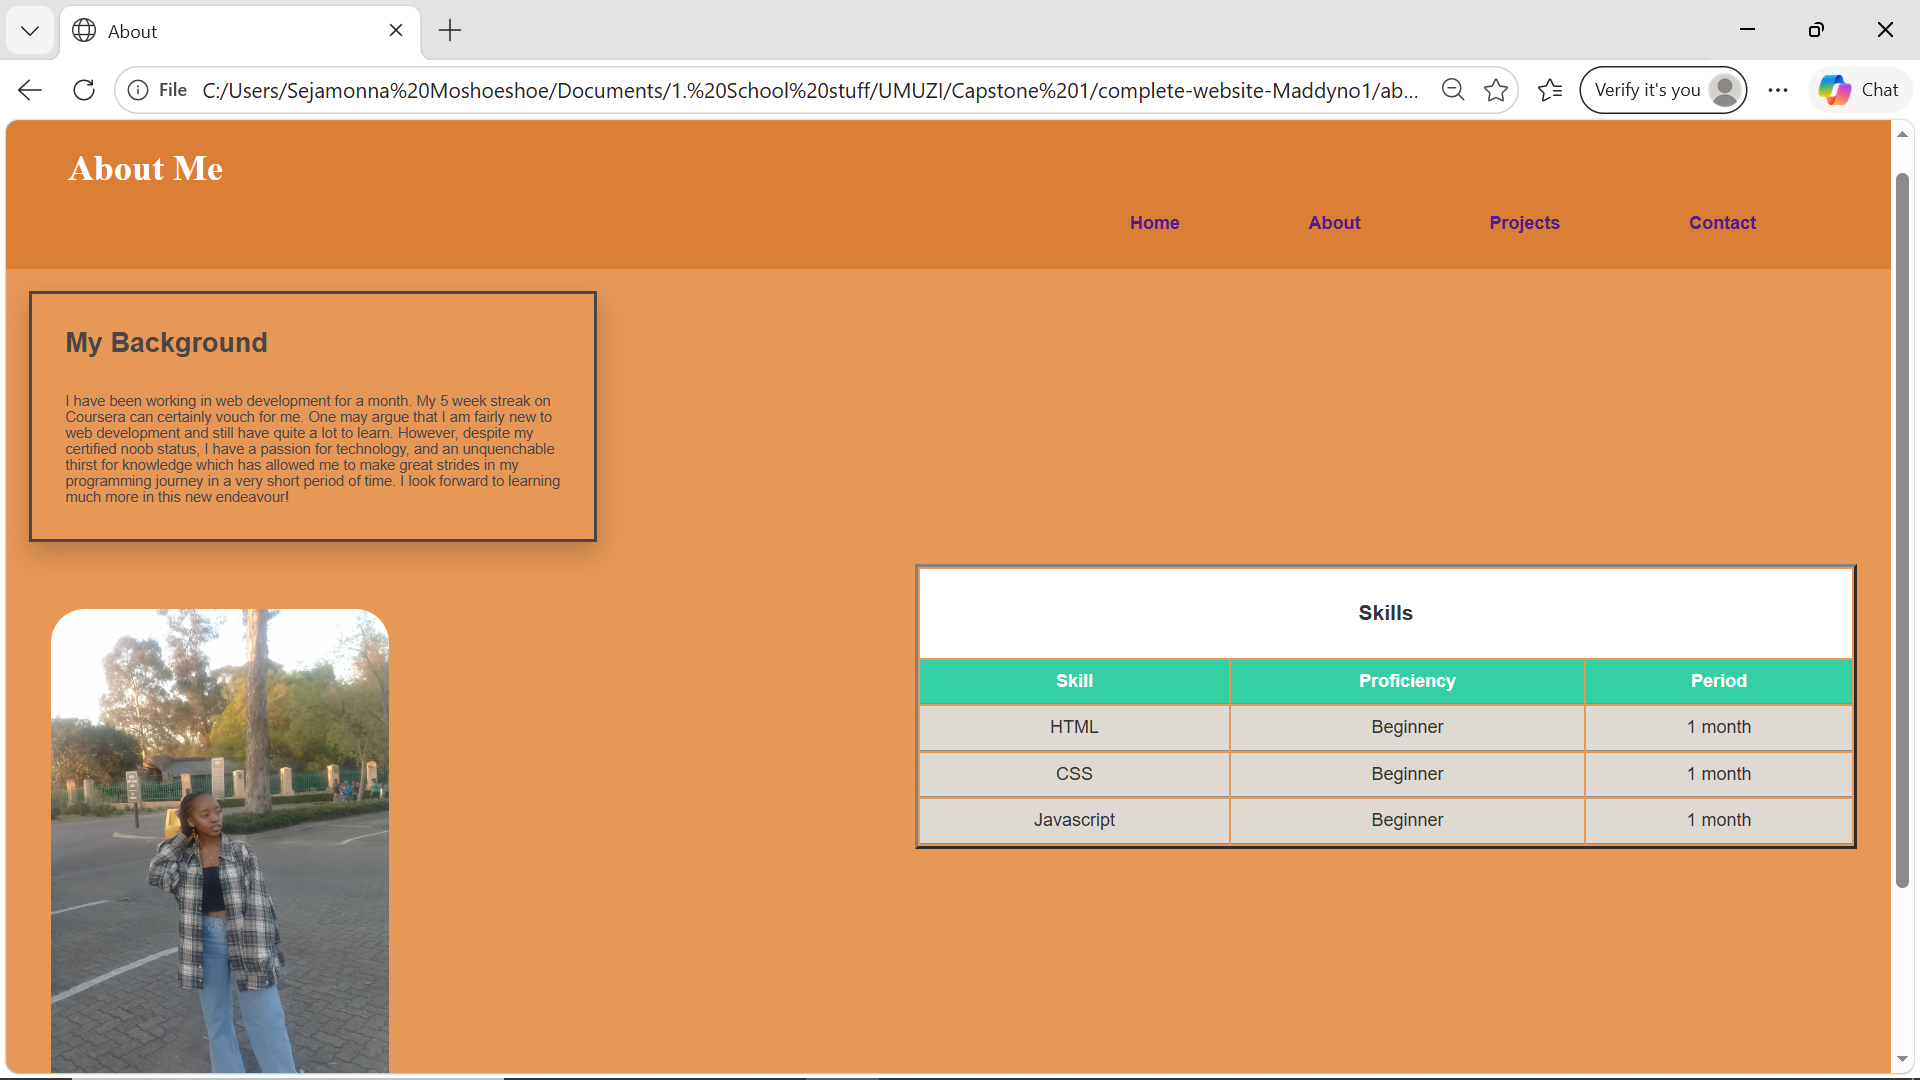
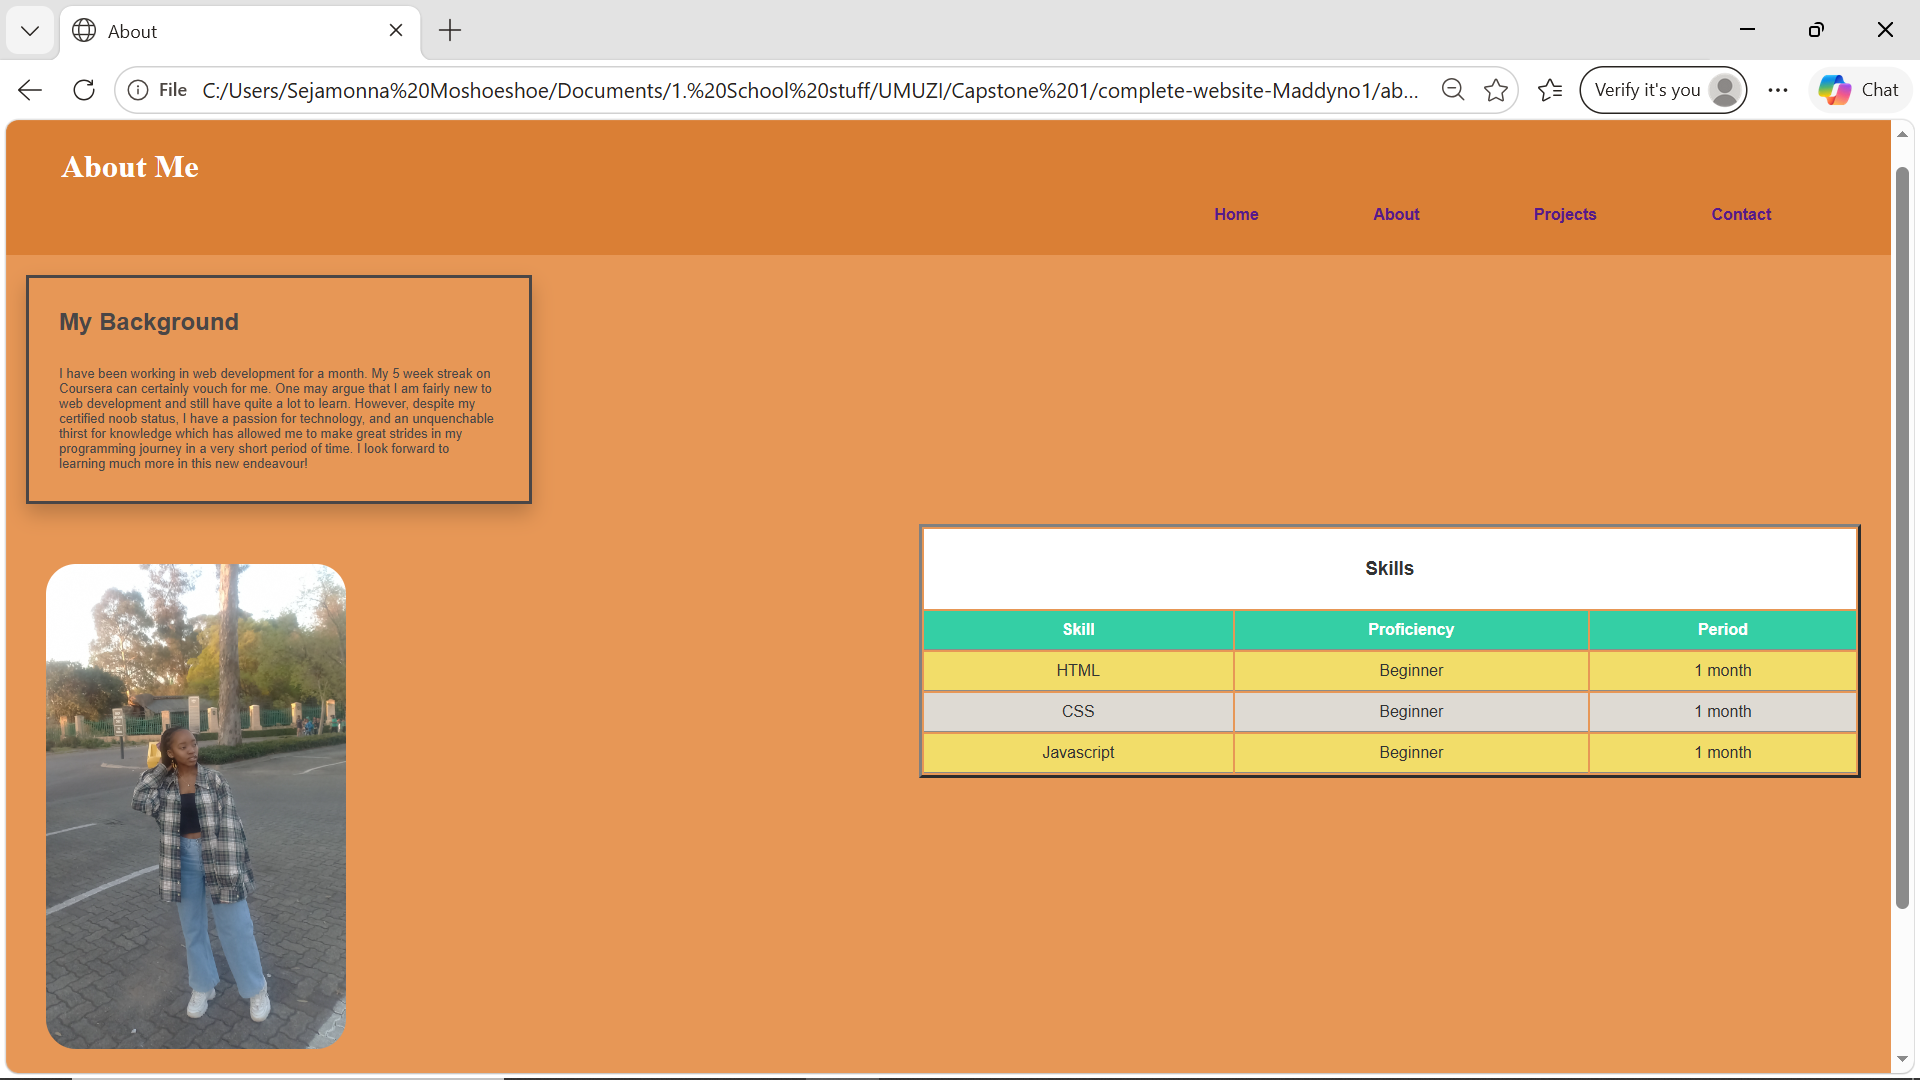
corrected table

diff --git a/styles.css b/styles.css
@@ -291,6 +291,15 @@ th {
 
 tr {
     background-color: rgb(222, 218, 211);
+    
+}
+
+tr:nth-child(even) {
+  background-color: rgb(222, 218, 211);
+}
+
+tr:nth-child(odd) {
+  background-color: rgb(242, 221, 105);
 }
 
 /* Footer styling */
